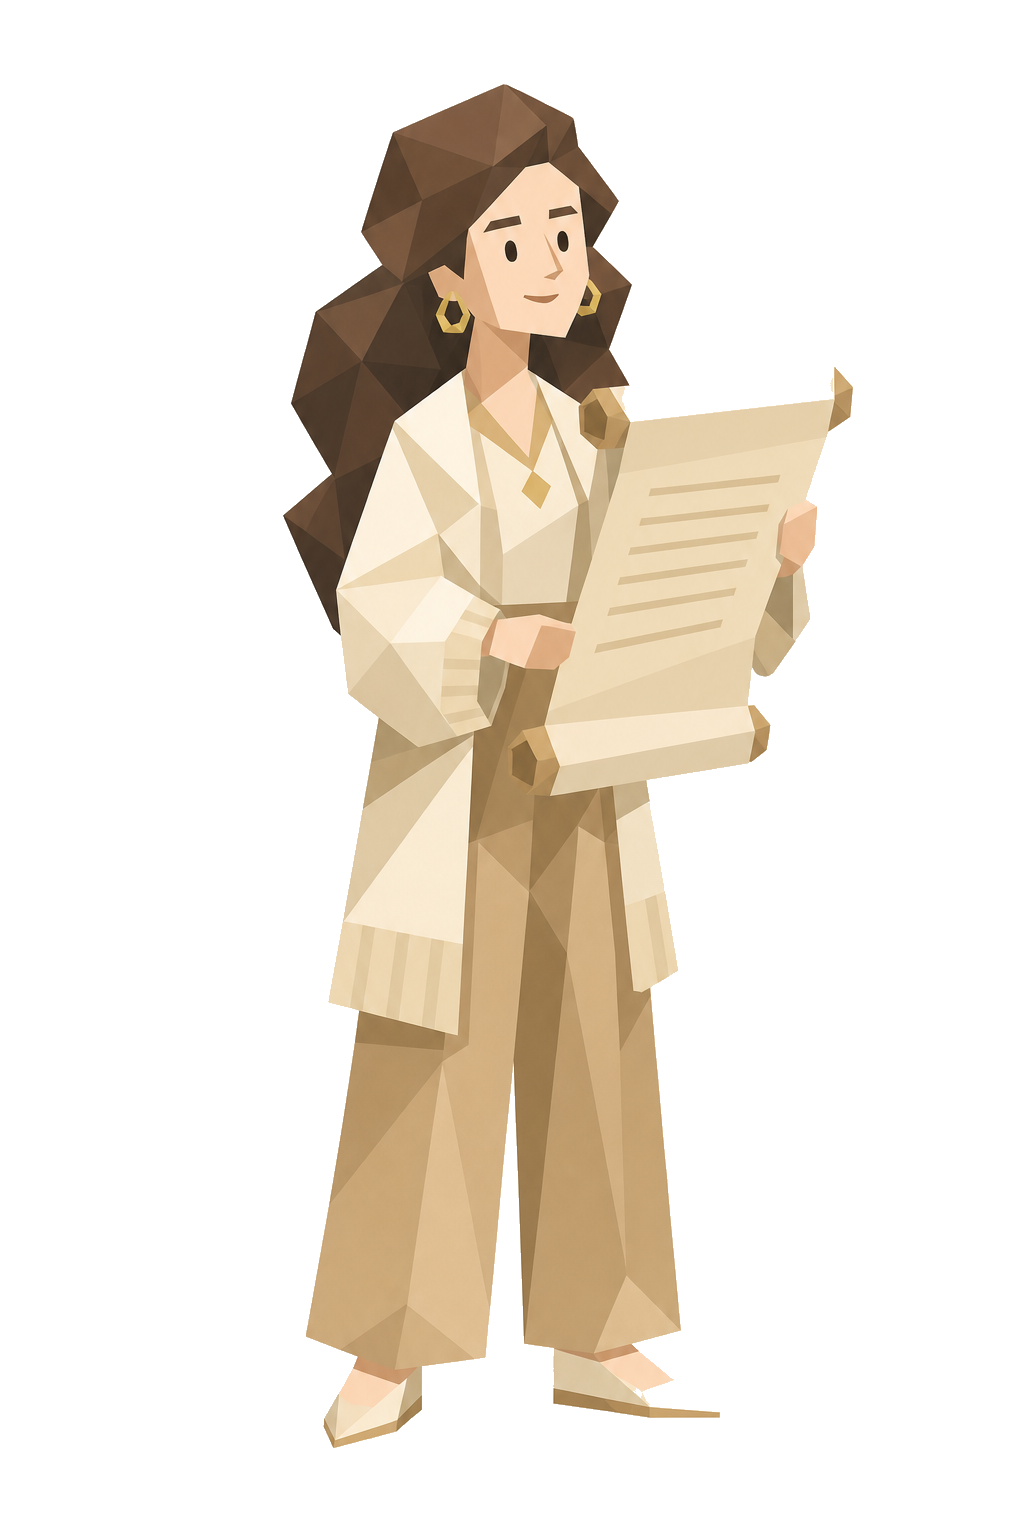
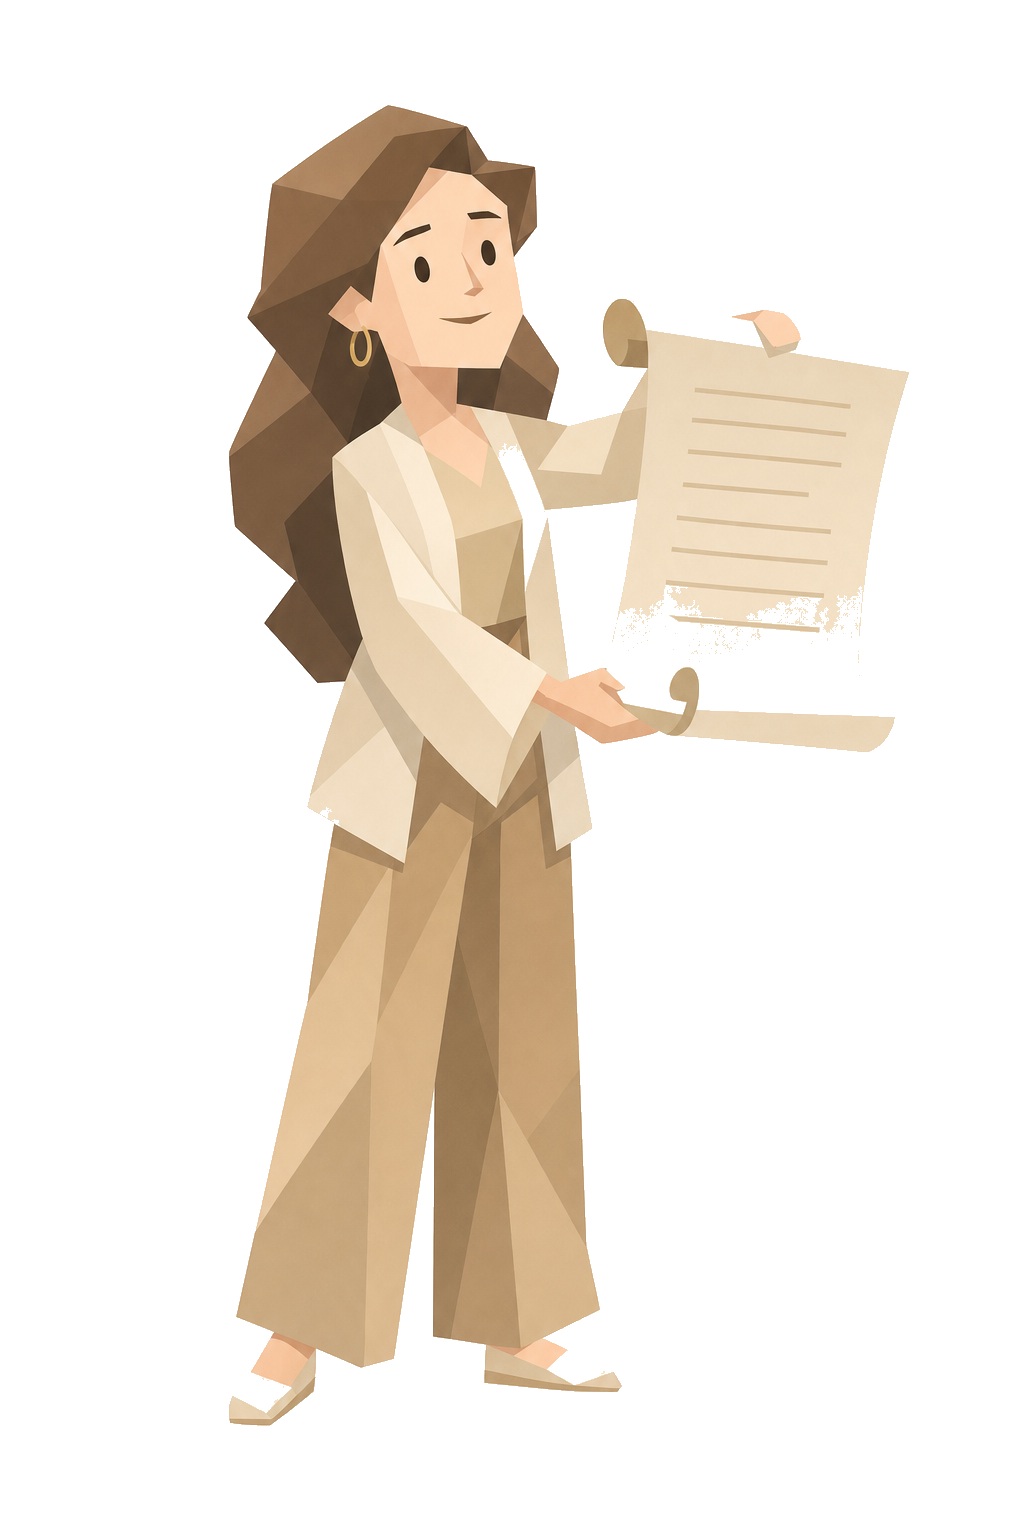
Refresh MBTI-style character figures and builder art direction.
Align figure assets and prompt wording with the classic geometric flat-vector look, and track package-lock for reproducible installs.

Changed region(s): [[0.2188, 0.0312, 0.9062, 0.9375]]

diff --git a/assests/source/prompts/01-builder.md b/assests/source/prompts/01-builder.md
@@ -2,7 +2,8 @@
 
 ## Art direction
 
-Modern flat vector editorial · no black outlines · 5.5–6 heads · freestanding (no card frame)
+Classic 16personalities geometric flat vector (Piotr Antkowiak language):
+smooth silhouette · large shade planes (not dense low-poly) · no outlines · 5.5 heads · freestanding
 
 ## Props
 
@@ -15,4 +16,4 @@ Slight forward lean, celebratory fist + laptop — deploy-first energy.
 
 ## Prompt seed
 
-Full-body MBTI-style flat vector developer, muted mint palette, large stylized hair, oval eyes, holding laptop with rocket badge, natural narrative pose, abstract soft background, no outlines, no card frame.
+Full-body original MBTI-style flat vector developer, muted mint palette, large hair mass, tiny oval/dot eyes, laptop with rocket badge, narrative pose, cream bg, no outlines, no card frame.
